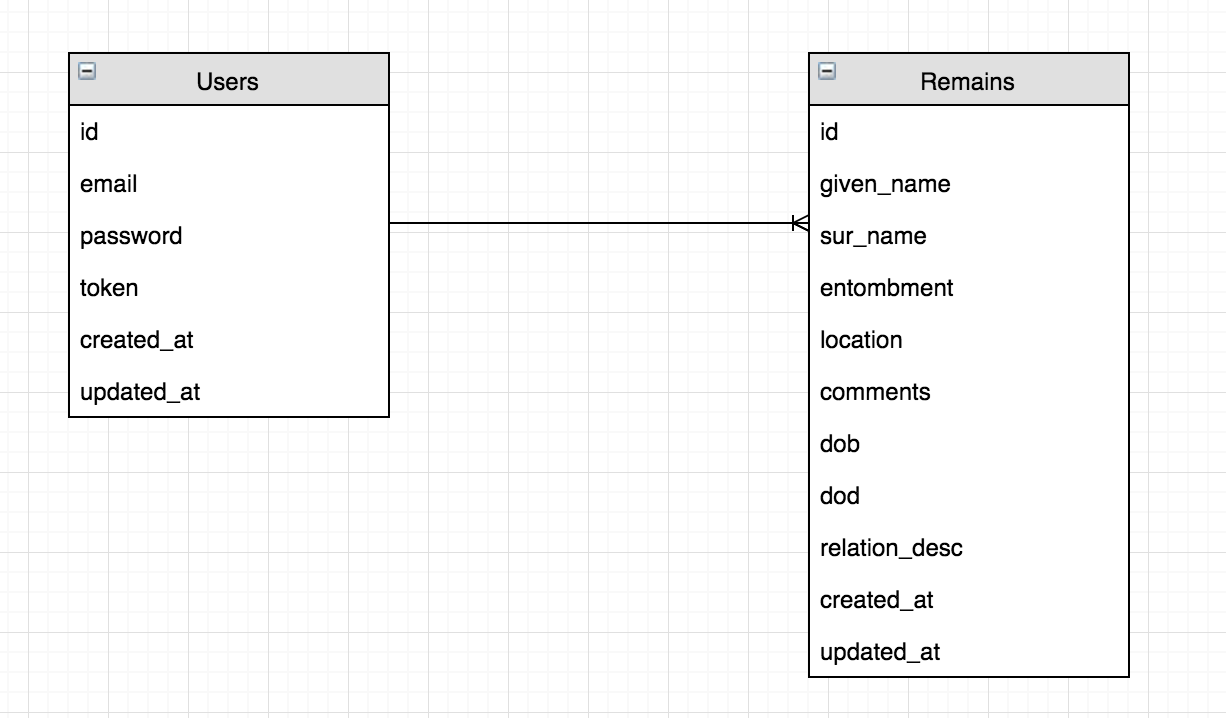
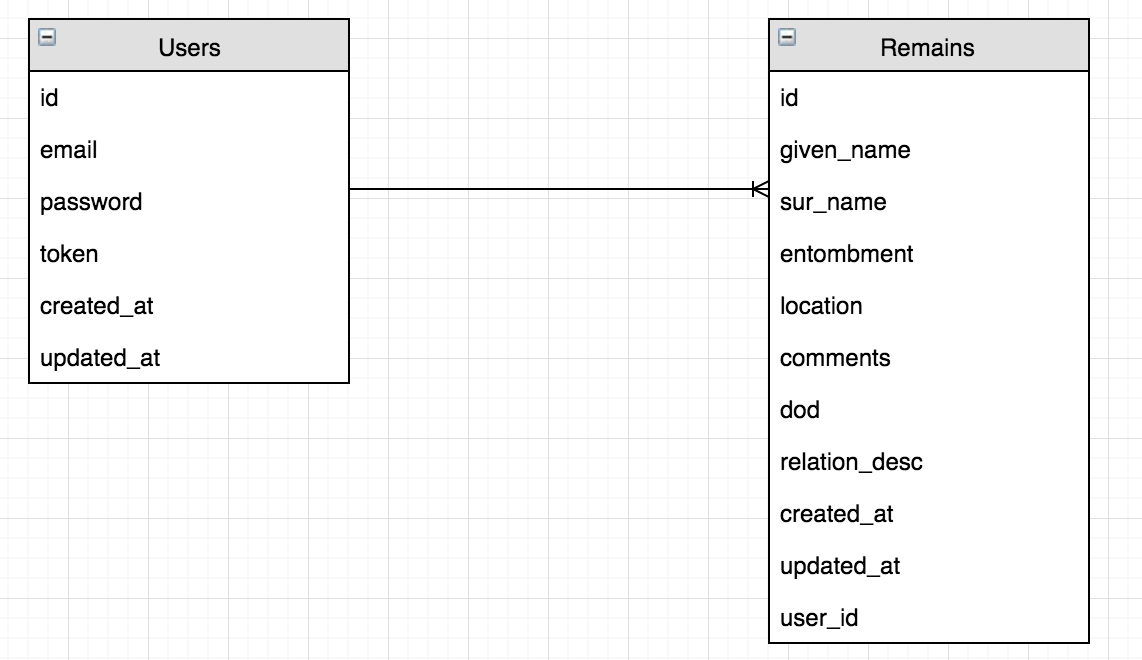
Capstone readme update
Updated README file with latest information.  Copied latest ERD file
also.

diff --git a/README.md b/README.md
@@ -5,30 +5,51 @@
 
 ## Description
 
-More to come
+My capstone project was to build a gravesite tracker appliction.  A user must
+be signed in before they can create/view/modify/delete their entries.
 
 ## Project Links
 
 #### Back-End Deplpyed
-[ProjectApiDeployed]()
+[ProjectApiDeployed](https://octater-dirt-napstr-api.herokuapp.com/)
 #### Back-End Repo
-[ProjectApiRepo]()
+[ProjectApiRepo](https://github.com/octater/dirt-napstr-api)
 
 #### Front-End Deployed
-[ProjectClientDeployed]()
+[CapstoneClientDeployed](https://octater.github.io/dirt-napstr-client/)
 #### Front-End Repo
-[ProjectClientRepo]()
+[CapsonteClientRepo](https://github.com/octater/dirt-napstr-client)
 
 ## ERD
 
 ![ERD](images/ERD.png)
 
+## General Approach
 
-## Description
+As with all the previous projects, I first created the wireframe, user stories,
+and ERD. I decided early to use Postgres database and not MongoDB (nothing
+against MongoDB, but I felt this was better suited for a sql database).  From
+the ERD, I proceeded to get the basic backend tables generated.
 
-More to come
+Working with it wireframe and user stories, I then started to get a working
+CRUD frontend app ready.  I started with the user functions then proceeded to
+the remains entries.
 
-## Links
+Lastly, I tried to beautify the app.  This turned out to be more work than
+anticipated.  I wanted to use handlebars, a date picker, and a dropdown this
+time.
+
+## Technologies
+
+-   HTML
+-   CSS
+-   JavaScript
+-   Bootstrap
+-   Ajax
+-   Handlebars
+-   Heruko
+-   Ruby/Rails
+-   Postgres
 
 ## API
 
@@ -102,6 +123,93 @@ curl http://localhost:4741/sign-out/$ID \
   --request DELETE \
   --header "Authorization: Token token=$TOKEN"
 ```
+
+### Remains
+
+| Verb   |  URI Pattern    |  Controller#Action  |
+|--------|-----------------|---------------------|
+| GET    | `/remains`      | `remains#index`     |
+| POST   | `/remains`      | `remains#create`    |
+| PATCH  | `/remains/:id`  | `remains#update`    |
+| DELETE | `/remains/:id`  | `remains#destroy`   |
+
+#### GET /remains
+
+Request:
+
+```sh
+curl --include --request GET http://localhost:4741/remains \
+  --header "Authorization: Token token=$TOKEN"
+```
+
+#### POST /remains
+
+Request:
+
+```sh
+curl --include --request POST http://localhost:4741/remains \
+  --header "Authorization: Token token=$TOKEN" \
+  --header "Content-Type: application/json" \
+  --data '{
+    "remain": {
+      "given_name": "'"${GN}"'",
+      "sur_name": "'"${SN}"'",
+      "entombment": "'"${E}"'",
+      "location": "'"${L}"'",
+      "comments": "'"${C}"'",
+      "dod": "'"${DOD}"'",
+      "relation_desc": "'"${RD}"'"
+    }
+  }'
+```
+
+#### PATCH /remains/:id
+
+Request:
+
+```sh
+API="${API_ORIGIN:-http://localhost:4741}"
+    URL_PATH="/remains/$ID"
+    curl "${API}${URL_PATH}" \
+      --include \
+      --request PATCH \
+      --header "Authorization: Token token=$TOKEN" \
+      --header "Content-Type: application/json" \
+      --data '{
+        "remain": {
+          "given_name": "'"${GN}"'",
+          "sur_name": "'"${SN}"'",
+          "entombment": "'"${E}"'",
+          "location": "'"${L}"'",
+          "comments": "'"${C}"'",
+          "dod": "'"${DOD}"'",
+          "relation_desc": "'"${RD}"'"
+        }
+      }'
+```
+
+#### DELETE /remains/:id
+
+Request:
+
+```sh
+API="${API_ORIGIN:-http://localhost:4741}"
+    URL_PATH="/remains/$ID"
+    curl "${API}${URL_PATH}" \
+      --include \
+      --request DELETE \
+  --header "Authorization: Token token=$TOKEN"
+```
+
+## Unsolved Problems or Major Hurdles
+
+No unsolved or known problems.  One hurdle was ensuring only values in a
+dropdown field is valid when adding or updating a record
+
+
+## Install Instructions
+
+No special install instructions.
 
 
 ## [License](LICENSE)
